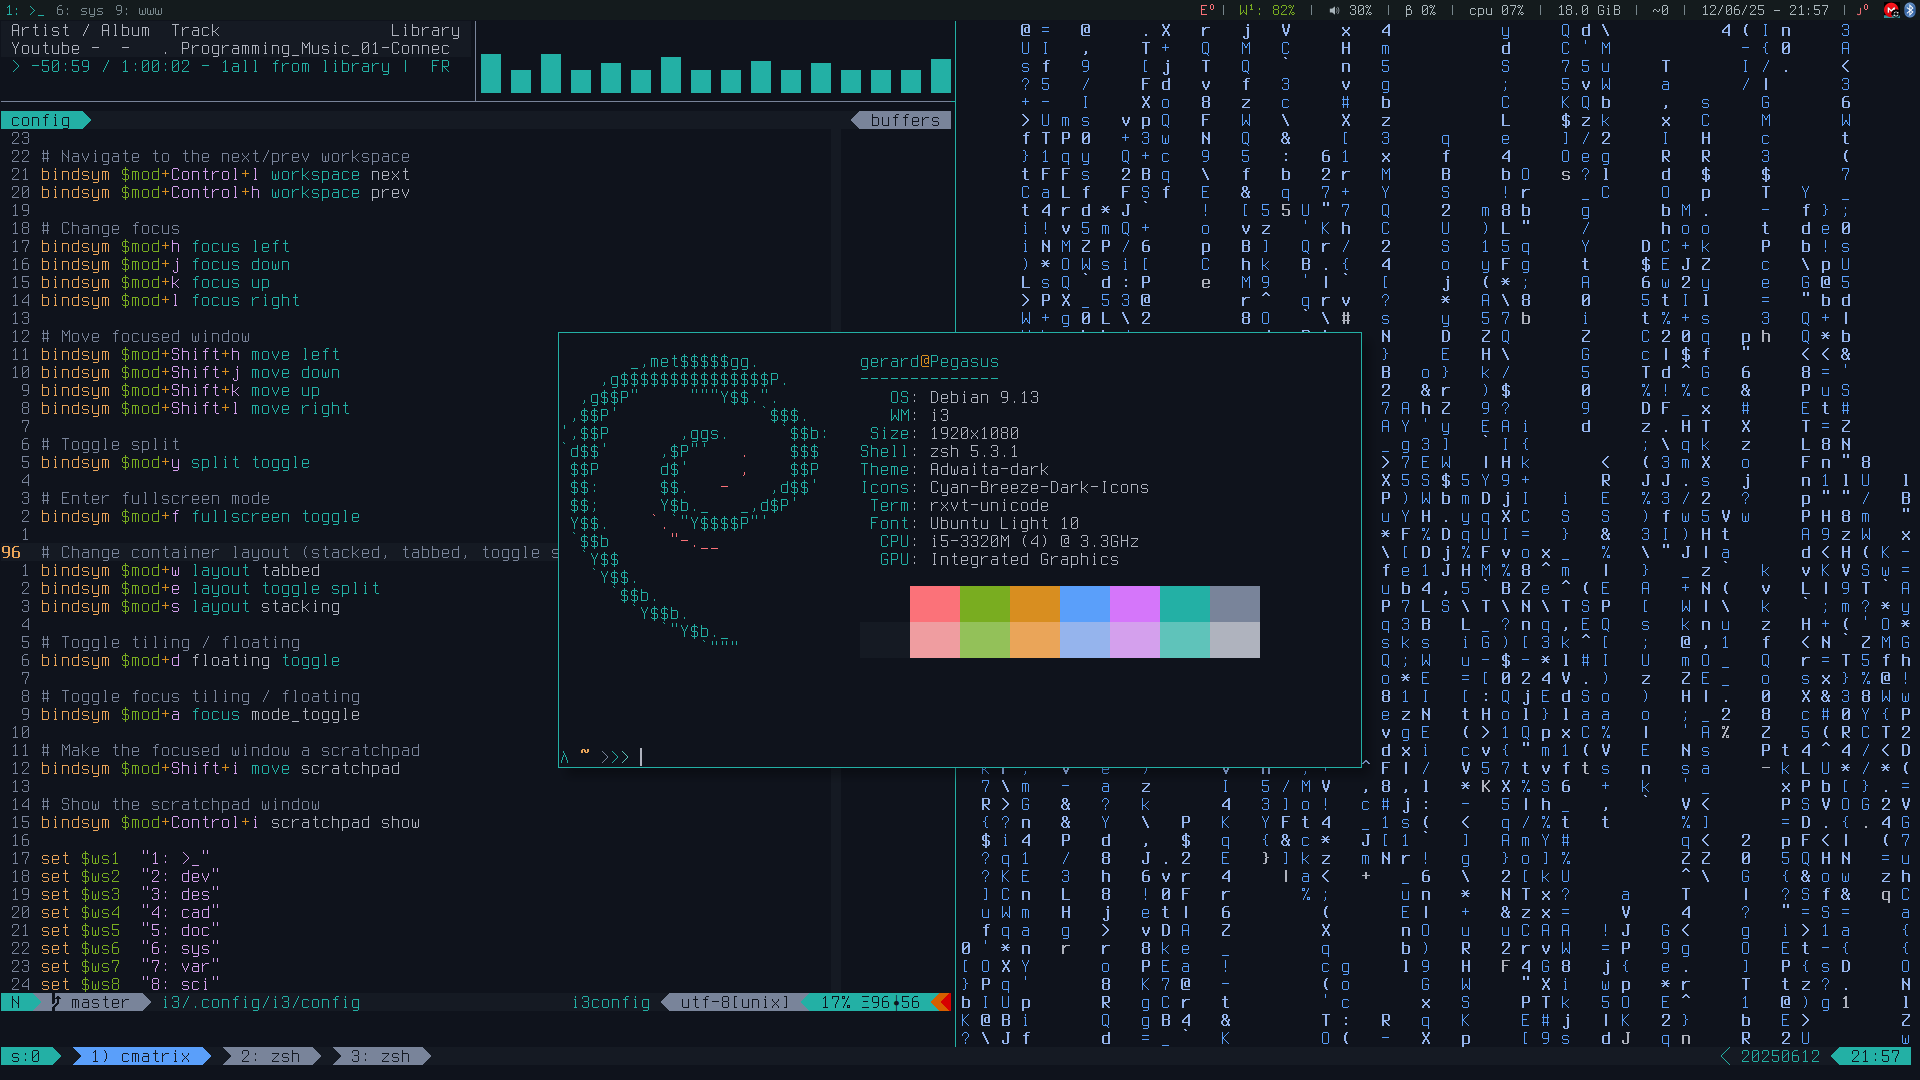
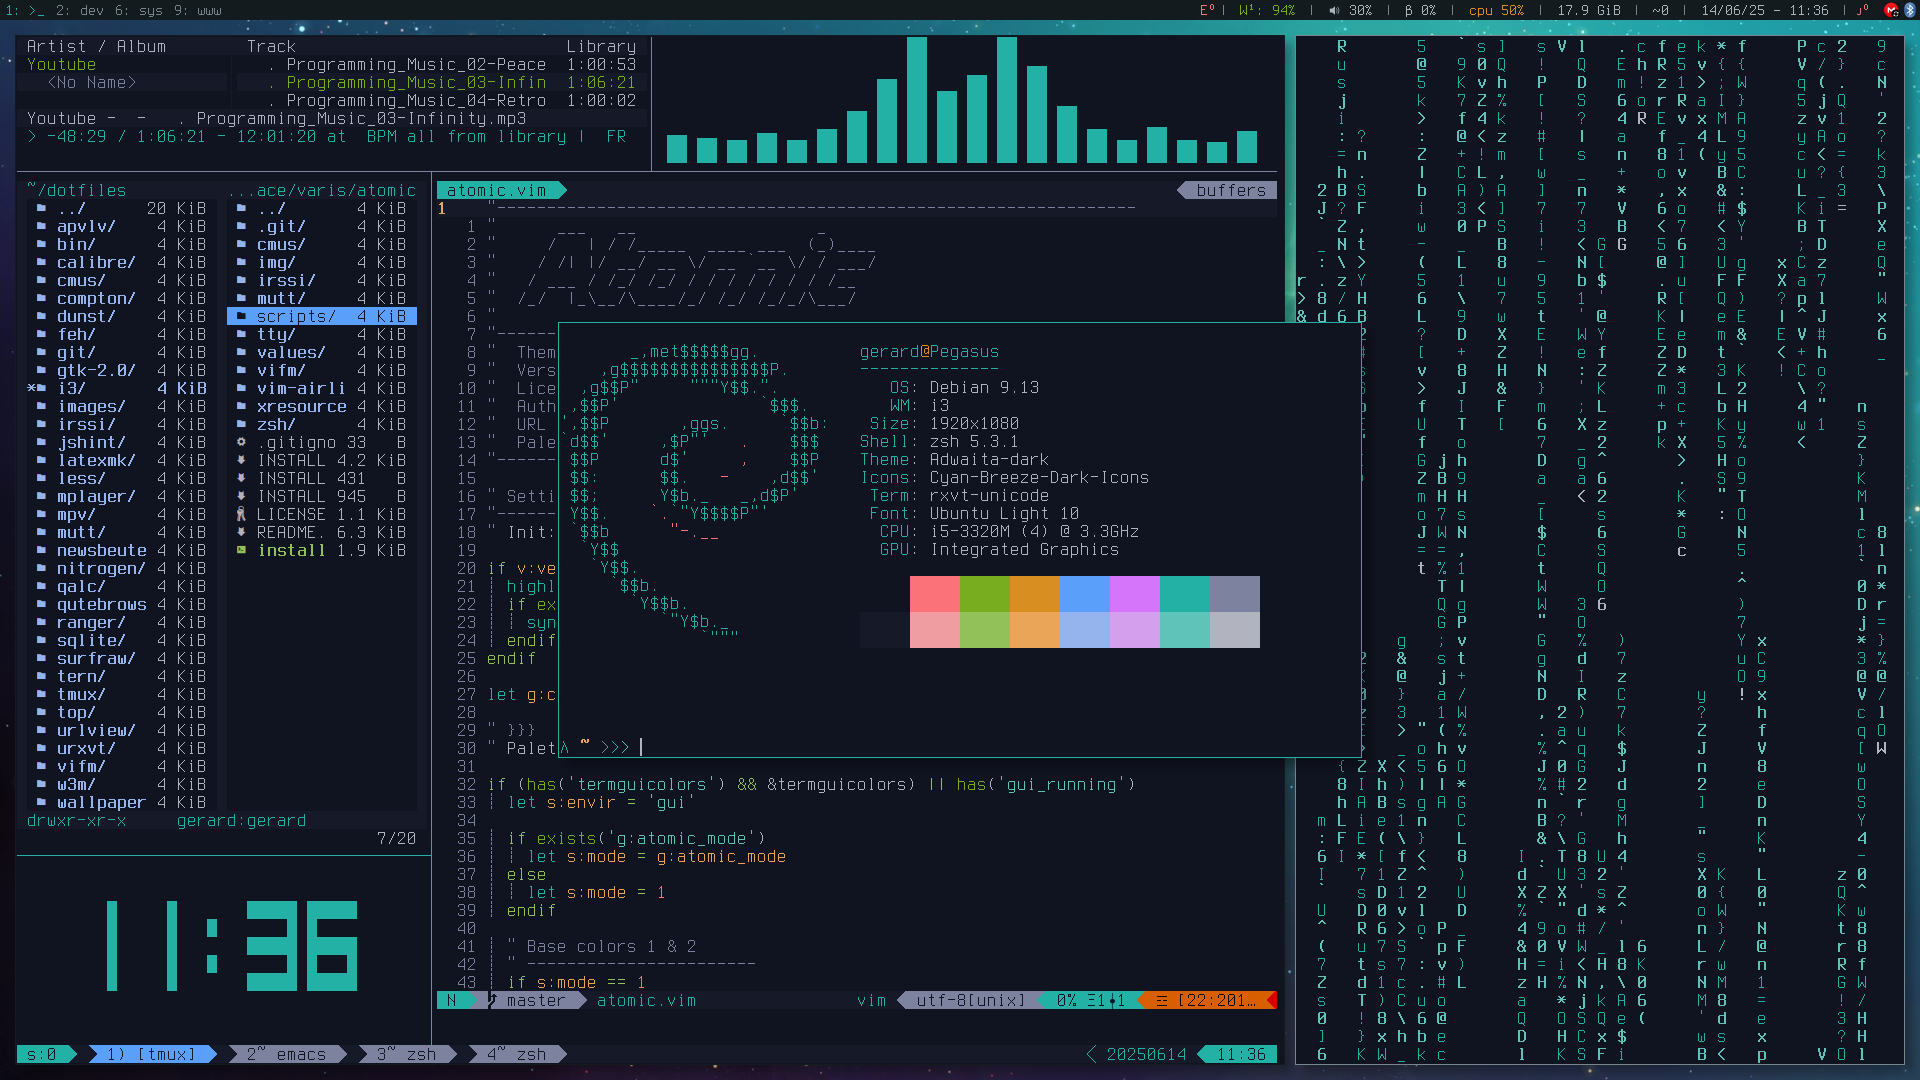
Base color modulation v2

diff --git a/scripts/hsluv-pal-ocean-hc.py b/scripts/hsluv-pal-ocean-hc.py
@@ -13,7 +13,7 @@ xres = False
 shot = False
 
 # Colors
-BA = 251
+BA = 260
 
 # Saturation
 Sn = 95

diff --git a/scripts/hsluv-pal-ocean-lc.py b/scripts/hsluv-pal-ocean-lc.py
@@ -13,7 +13,7 @@ xres = False
 shot = False
 
 # Colors
-BA = 251
+BA = 260
 
 # Saturation
 Sn = 95

diff --git a/scripts/hsluv-pal-ocean-mc.py b/scripts/hsluv-pal-ocean-mc.py
@@ -13,7 +13,7 @@ xres = False
 shot = False
 
 # Colors
-BA = 251
+BA = 260
 
 # Saturation
 Sn = 95

diff --git a/scripts/hsluv-pal-night-hc.py b/scripts/hsluv-pal-night-hc.py
@@ -13,7 +13,7 @@ xres = False
 shot = False
 
 # Colors
-BA = 45
+BA = 55
 
 # Saturation
 Sn = 95

diff --git a/scripts/hsluv-pal-night-lc.py b/scripts/hsluv-pal-night-lc.py
@@ -13,7 +13,7 @@ xres = False
 shot = False
 
 # Colors
-BA = 45
+BA = 55
 
 # Saturation
 Sn = 95

diff --git a/scripts/hsluv-pal-night-mc.py b/scripts/hsluv-pal-night-mc.py
@@ -13,7 +13,7 @@ xres = False
 shot = False
 
 # Colors
-BA = 45
+BA = 55
 
 # Saturation
 Sn = 95

diff --git a/values/atomic-night-hc.md b/values/atomic-night-hc.md
@@ -3,10 +3,10 @@
 ```
 Id Color            Hue   Sat   Luv    Hex    (R - G - B)
 -- --------------  ----  ----  ----  -------  -----------
-01 Base 1           45°   34%    3%  #0F0A07   15  10   7
-09 Base 2           45°   34%    6%  #18120D   24  18  13
-08 Base 3           45°   21%   55%  #928074  146 128 116
-16 Base 4           45°   13%   73%  #BFB1A7  191 177 167
+01 Base 1           55°   34%    3%  #0E0A07   14  10   7
+09 Base 2           55°   34%    6%  #17130D   23  19  13
+08 Base 3           55°   21%   55%  #8E8274  142 130 116
+16 Base 4           55°   13%   73%  #BCB2A7  188 178 167
 -- --------------  ----  ----  ----  -------  -----------
 02 Dark Red         10°   95%   65%  #FB7279  251 114 121
 04 Dark Orange      45°   95%   65%  #D88E20  216 142  32

diff --git a/values/atomic-night-lc.md b/values/atomic-night-lc.md
@@ -3,10 +3,10 @@
 ```
 Id Color            Hue   Sat   Luv    Hex    (R - G - B)
 -- --------------  ----  ----  ----  -------  -----------
-01 Base 1           45°   34%    9%  #1F1812   31  24  18
-09 Base 2           45°   34%   12%  #261E17   38  30  23
-08 Base 3           45°   21%   55%  #928074  146 128 116
-16 Base 4           45°   13%   73%  #BFB1A7  191 177 167
+01 Base 1           55°   34%    9%  #1E1912   30  25  18
+09 Base 2           55°   34%   12%  #251F17   37  31  23
+08 Base 3           55°   21%   55%  #8E8274  142 130 116
+16 Base 4           55°   13%   73%  #BCB2A7  188 178 167
 -- --------------  ----  ----  ----  -------  -----------
 02 Dark Red         10°   95%   65%  #FB7279  251 114 121
 04 Dark Orange      45°   95%   65%  #D88E20  216 142  32

diff --git a/values/atomic-night-mc.md b/values/atomic-night-mc.md
@@ -3,10 +3,10 @@
 ```
 Id Color            Hue   Sat   Luv    Hex    (R - G - B)
 -- --------------  ----  ----  ----  -------  -----------
-01 Base 1           45°   34%    6%  #18120D   24  18  13
-09 Base 2           45°   34%    9%  #1F1812   31  24  18
-08 Base 3           45°   21%   55%  #928074  146 128 116
-16 Base 4           45°   13%   73%  #BFB1A7  191 177 167
+01 Base 1           55°   34%    6%  #17130D   23  19  13
+09 Base 2           55°   34%    9%  #1E1912   30  25  18
+08 Base 3           55°   21%   55%  #8E8274  142 130 116
+16 Base 4           55°   13%   73%  #BCB2A7  188 178 167
 -- --------------  ----  ----  ----  -------  -----------
 02 Dark Red         10°   95%   65%  #FB7279  251 114 121
 04 Dark Orange      45°   95%   65%  #D88E20  216 142  32

diff --git a/values/atomic-ocean-hc.md b/values/atomic-ocean-hc.md
@@ -3,10 +3,10 @@
 ```
 Id Color            Hue   Sat   Luv    Hex    (R - G - B)
 -- --------------  ----  ----  ----  -------  -----------
-01 Base 1          251°   34%    3%  #080B11    8  11  17
-09 Base 2          251°   34%    6%  #0F131C   15  19  28
-08 Base 3          251°   21%   55%  #79849A  121 132 154
-16 Base 4          251°   13%   73%  #AFB3BE  175 179 190
+01 Base 1          260°   34%    3%  #080A14    8  10  20
+09 Base 2          260°   34%    6%  #101320   16  19  32
+08 Base 3          260°   21%   55%  #7D829F  125 130 159
+16 Base 4          260°   13%   73%  #B1B3BE  177 179 190
 -- --------------  ----  ----  ----  -------  -----------
 02 Dark Red         10°   95%   65%  #FB7279  251 114 121
 04 Dark Orange      45°   95%   65%  #D88E20  216 142  32

diff --git a/values/atomic-ocean-lc.md b/values/atomic-ocean-lc.md
@@ -3,10 +3,10 @@
 ```
 Id Color            Hue   Sat   Luv    Hex    (R - G - B)
 -- --------------  ----  ----  ----  -------  -----------
-01 Base 1          251°   34%    9%  #151A23   21  26  35
-09 Base 2          251°   34%   12%  #1A202B   26  32  43
-08 Base 3          251°   21%   55%  #79849A  121 132 154
-16 Base 4          251°   13%   73%  #AFB3BE  175 179 190
+01 Base 1          260°   34%    9%  #151928   21  25  40
+09 Base 2          260°   34%   12%  #1B1F30   27  31  48
+08 Base 3          260°   21%   55%  #7D829F  125 130 159
+16 Base 4          260°   13%   73%  #B1B3BE  177 179 190
 -- --------------  ----  ----  ----  -------  -----------
 02 Dark Red         10°   95%   65%  #FB7279  251 114 121
 04 Dark Orange      45°   95%   65%  #D88E20  216 142  32

diff --git a/values/atomic-ocean-mc.md b/values/atomic-ocean-mc.md
@@ -3,10 +3,10 @@
 ```
 Id Color            Hue   Sat   Luv    Hex    (R - G - B)
 -- --------------  ----  ----  ----  -------  -----------
-01 Base 1          251°   34%    6%  #0F131C   15  19  28
-09 Base 2          251°   34%    9%  #151A23   21  26  35
-08 Base 3          251°   21%   55%  #79849A  121 132 154
-16 Base 4          251°   13%   73%  #AFB3BE  175 179 190
+01 Base 1          260°   34%    6%  #101320   16  19  32
+09 Base 2          260°   34%    9%  #151928   21  25  40
+08 Base 3          260°   21%   55%  #7D829F  125 130 159
+16 Base 4          260°   13%   73%  #B1B3BE  177 179 190
 -- --------------  ----  ----  ----  -------  -----------
 02 Dark Red         10°   95%   65%  #FB7279  251 114 121
 04 Dark Orange      45°   95%   65%  #D88E20  216 142  32
